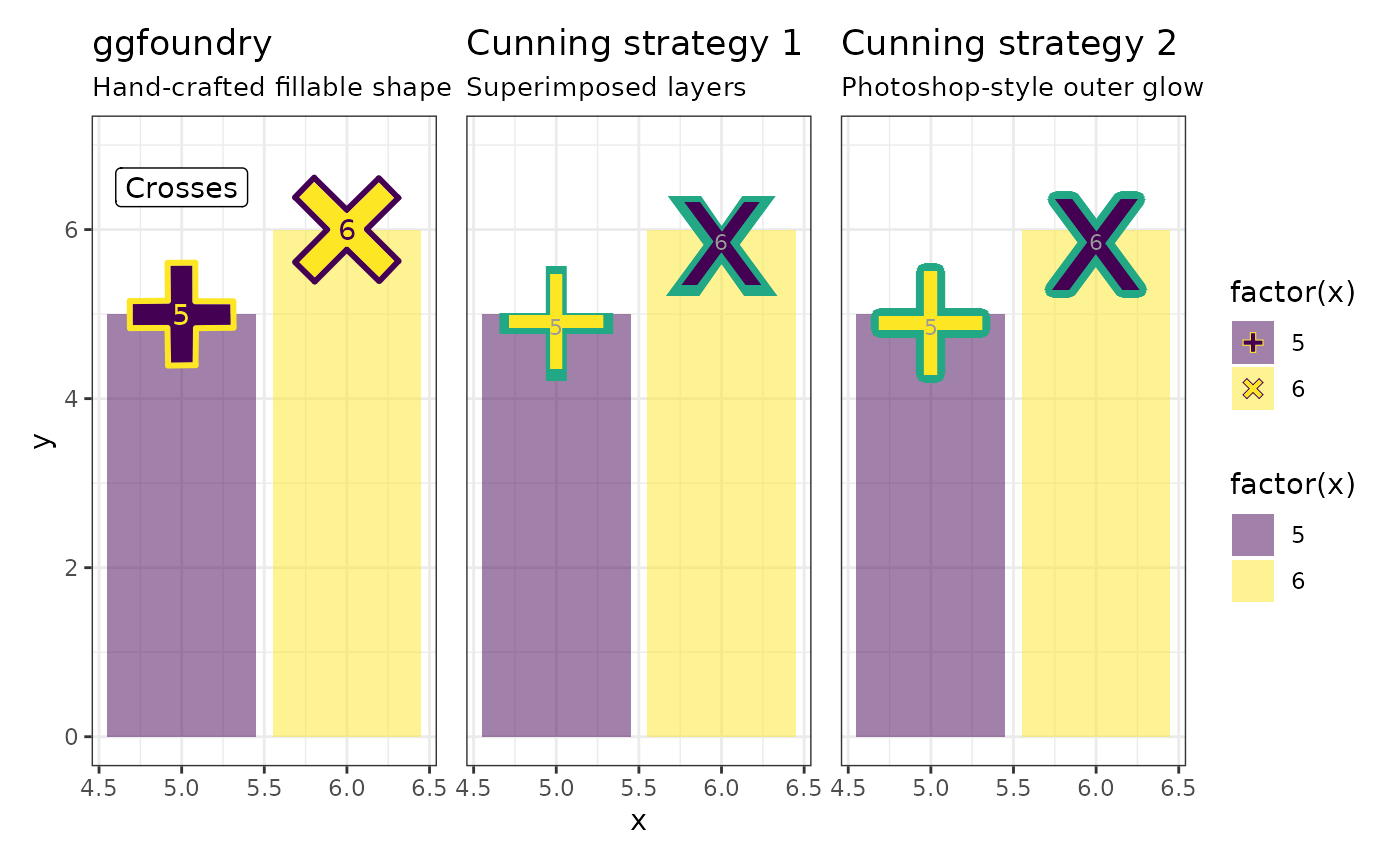
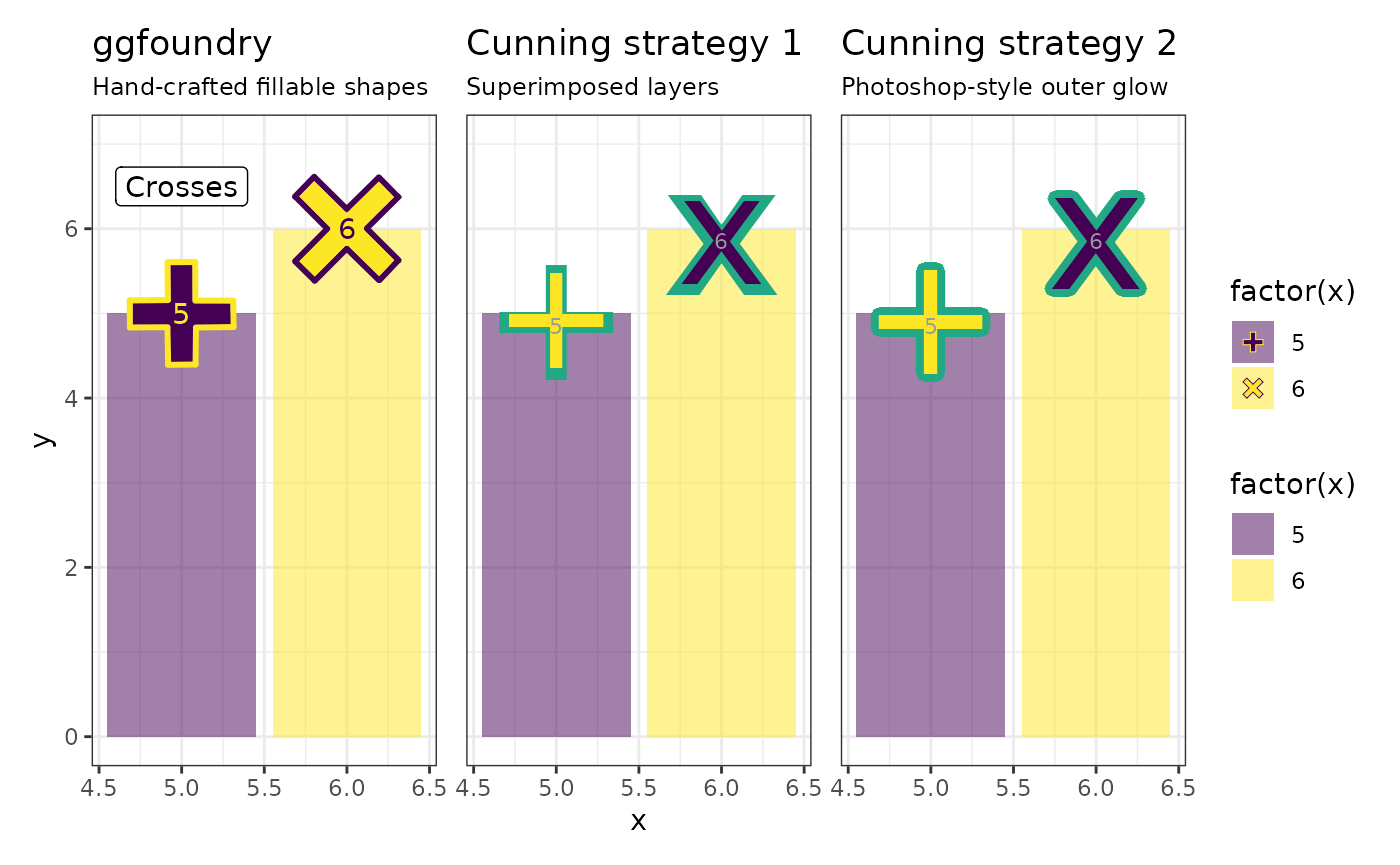
Deploying to gh-pages from @ cgoo4/ggfoundry@53fd26a289808bdbf0f2857282dfea167a48dd96 🚀

diff --git a/articles/ggfoundry.html b/articles/ggfoundry.html
@@ -159,7 +159,8 @@ great option. They are colourable and appear in the legend.</p>
 <span>  <span class="fu"><a href="https://ggplot2.tidyverse.org/reference/geom_path.html" class="external-link">geom_line</a></span><span class="op">(</span>show.legend <span class="op">=</span> <span class="cn">FALSE</span><span class="op">)</span> <span class="op">+</span></span>
 <span>  <span class="fu"><a href="https://ggplot2.tidyverse.org/reference/scale_manual.html" class="external-link">scale_colour_manual</a></span><span class="op">(</span>values <span class="op">=</span> <span class="fu"><a href="https://rdrr.io/r/base/c.html" class="external-link">c</a></span><span class="op">(</span><span class="st">"darkred"</span>, <span class="st">"darkblue"</span>, <span class="st">"darkgreen"</span><span class="op">)</span><span class="op">)</span> <span class="op">+</span></span>
 <span>  <span class="fu"><a href="https://ggplot2.tidyverse.org/reference/scale_manual.html" class="external-link">scale_fill_manual</a></span><span class="op">(</span>values <span class="op">=</span> <span class="fu"><a href="https://rdrr.io/r/base/c.html" class="external-link">c</a></span><span class="op">(</span><span class="st">"pink"</span>, <span class="st">"lightgreen"</span>, <span class="st">"skyblue"</span><span class="op">)</span><span class="op">)</span> <span class="op">+</span></span>
-<span>  <span class="fu"><a href="https://ggplot2.tidyverse.org/reference/ggtheme.html" class="external-link">theme_bw</a></span><span class="op">(</span><span class="op">)</span></span>
+<span>  <span class="fu"><a href="https://ggplot2.tidyverse.org/reference/ggtheme.html" class="external-link">theme_bw</a></span><span class="op">(</span><span class="op">)</span> <span class="op">+</span></span>
+<span>  <span class="fu"><a href="https://ggplot2.tidyverse.org/reference/theme.html" class="external-link">theme</a></span><span class="op">(</span>plot.subtitle <span class="op">=</span> <span class="fu"><a href="https://ggplot2.tidyverse.org/reference/element.html" class="external-link">element_text</a></span><span class="op">(</span>size <span class="op">=</span> <span class="fl">10</span><span class="op">)</span><span class="op">)</span></span>
 <span></span>
 <span><span class="va">p1</span> <span class="op">&lt;-</span> <span class="va">p</span> <span class="op">+</span></span>
 <span>  <span class="fu"><a href="../reference/geom_casting.html">geom_casting</a></span><span class="op">(</span>size <span class="op">=</span> <span class="fl">0.15</span><span class="op">)</span> <span class="op">+</span></span>
@@ -239,7 +240,8 @@ the full image as-is is often the desired outcome.</p>
 <span>  <span class="fu"><a href="https://ggplot2.tidyverse.org/reference/geom_bar.html" class="external-link">geom_col</a></span><span class="op">(</span><span class="op">)</span> <span class="op">+</span></span>
 <span>  <span class="fu"><a href="https://ggplot2.tidyverse.org/reference/scale_viridis.html" class="external-link">scale_fill_viridis_d</a></span><span class="op">(</span><span class="op">)</span> <span class="op">+</span></span>
 <span>  <span class="fu"><a href="https://ggplot2.tidyverse.org/reference/scale_continuous.html" class="external-link">scale_y_continuous</a></span><span class="op">(</span>limits <span class="op">=</span> <span class="fu"><a href="https://rdrr.io/r/base/c.html" class="external-link">c</a></span><span class="op">(</span><span class="cn">NA</span>, <span class="fl">9</span><span class="op">)</span><span class="op">)</span> <span class="op">+</span></span>
-<span>  <span class="fu"><a href="https://ggplot2.tidyverse.org/reference/ggtheme.html" class="external-link">theme_bw</a></span><span class="op">(</span><span class="op">)</span></span>
+<span>  <span class="fu"><a href="https://ggplot2.tidyverse.org/reference/ggtheme.html" class="external-link">theme_bw</a></span><span class="op">(</span><span class="op">)</span> <span class="op">+</span></span>
+<span>  <span class="fu"><a href="https://ggplot2.tidyverse.org/reference/theme.html" class="external-link">theme</a></span><span class="op">(</span>plot.subtitle <span class="op">=</span> <span class="fu"><a href="https://ggplot2.tidyverse.org/reference/element.html" class="external-link">element_text</a></span><span class="op">(</span>size <span class="op">=</span> <span class="fl">10</span><span class="op">)</span><span class="op">)</span></span>
 <span></span>
 <span><span class="va">p1</span> <span class="op">&lt;-</span> <span class="va">p</span> <span class="op">+</span></span>
 <span>  <span class="fu"><a href="../reference/geom_casting.html">geom_casting</a></span><span class="op">(</span>size <span class="op">=</span> <span class="fl">0.3</span>, <span class="fu"><a href="https://ggplot2.tidyverse.org/reference/aes.html" class="external-link">aes</a></span><span class="op">(</span>colour <span class="op">=</span> <span class="fu"><a href="https://rdrr.io/r/base/factor.html" class="external-link">factor</a></span><span class="op">(</span><span class="va">x</span><span class="op">)</span><span class="op">)</span><span class="op">)</span> <span class="op">+</span></span>
@@ -290,7 +292,7 @@ differently-coloured outer-glow.</li>
 <span>  <span class="fu"><a href="https://ggplot2.tidyverse.org/reference/scale_viridis.html" class="external-link">scale_fill_viridis_d</a></span><span class="op">(</span><span class="op">)</span> <span class="op">+</span></span>
 <span>  <span class="fu"><a href="https://ggplot2.tidyverse.org/reference/scale_viridis.html" class="external-link">scale_colour_viridis_d</a></span><span class="op">(</span>direction <span class="op">=</span> <span class="op">-</span><span class="fl">1</span><span class="op">)</span> <span class="op">+</span></span>
 <span>  <span class="fu"><a href="https://ggplot2.tidyverse.org/reference/ggtheme.html" class="external-link">theme_bw</a></span><span class="op">(</span><span class="op">)</span> <span class="op">+</span></span>
-<span>  <span class="fu"><a href="https://ggplot2.tidyverse.org/reference/theme.html" class="external-link">theme</a></span><span class="op">(</span>plot.subtitle <span class="op">=</span> <span class="fu"><a href="https://ggplot2.tidyverse.org/reference/element.html" class="external-link">element_text</a></span><span class="op">(</span>size <span class="op">=</span> <span class="fl">10</span><span class="op">)</span><span class="op">)</span></span>
+<span>  <span class="fu"><a href="https://ggplot2.tidyverse.org/reference/theme.html" class="external-link">theme</a></span><span class="op">(</span>plot.subtitle <span class="op">=</span> <span class="fu"><a href="https://ggplot2.tidyverse.org/reference/element.html" class="external-link">element_text</a></span><span class="op">(</span>size <span class="op">=</span> <span class="fl">9</span><span class="op">)</span><span class="op">)</span></span>
 <span></span>
 <span><span class="va">p1</span> <span class="op">&lt;-</span> <span class="va">p</span> <span class="op">+</span></span>
 <span>  <span class="fu"><a href="../reference/geom_casting.html">geom_casting</a></span><span class="op">(</span>size <span class="op">=</span> <span class="fl">0.7</span>, <span class="fu"><a href="https://ggplot2.tidyverse.org/reference/aes.html" class="external-link">aes</a></span><span class="op">(</span>colour <span class="op">=</span> <span class="fu"><a href="https://rdrr.io/r/base/factor.html" class="external-link">factor</a></span><span class="op">(</span><span class="va">x</span><span class="op">)</span><span class="op">)</span><span class="op">)</span> <span class="op">+</span></span>
